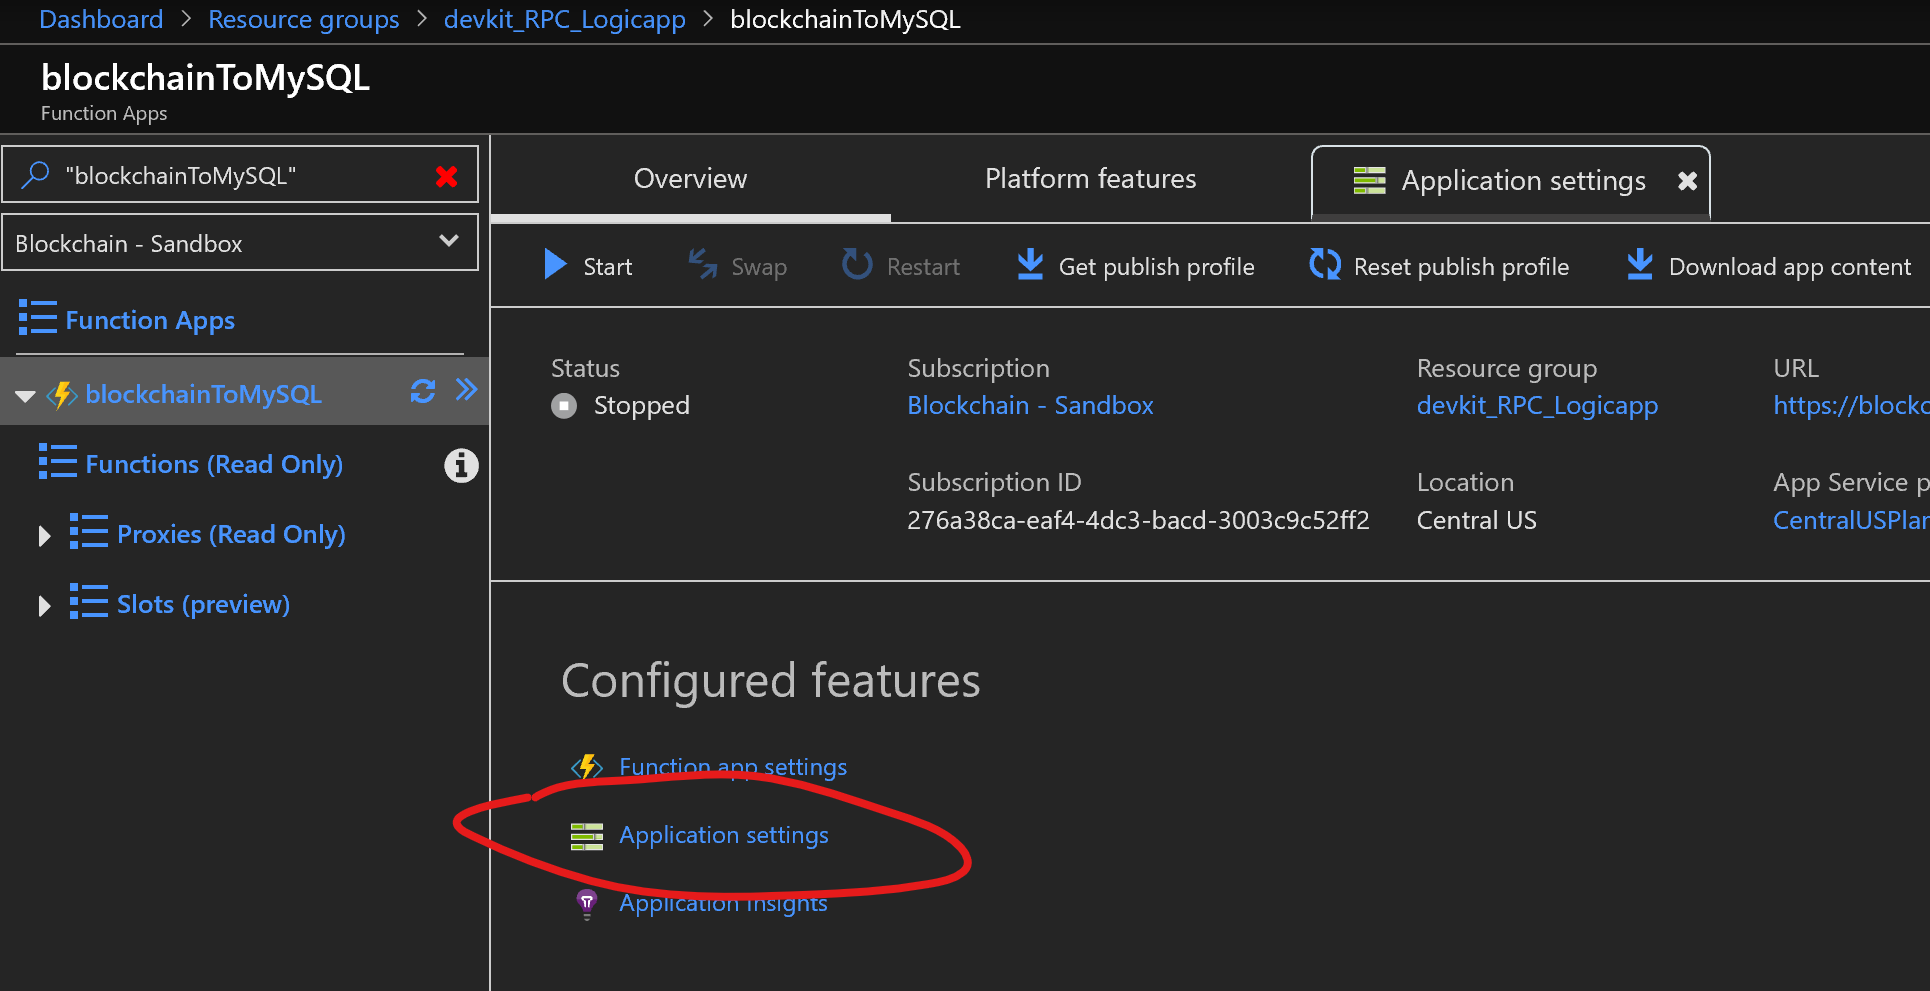
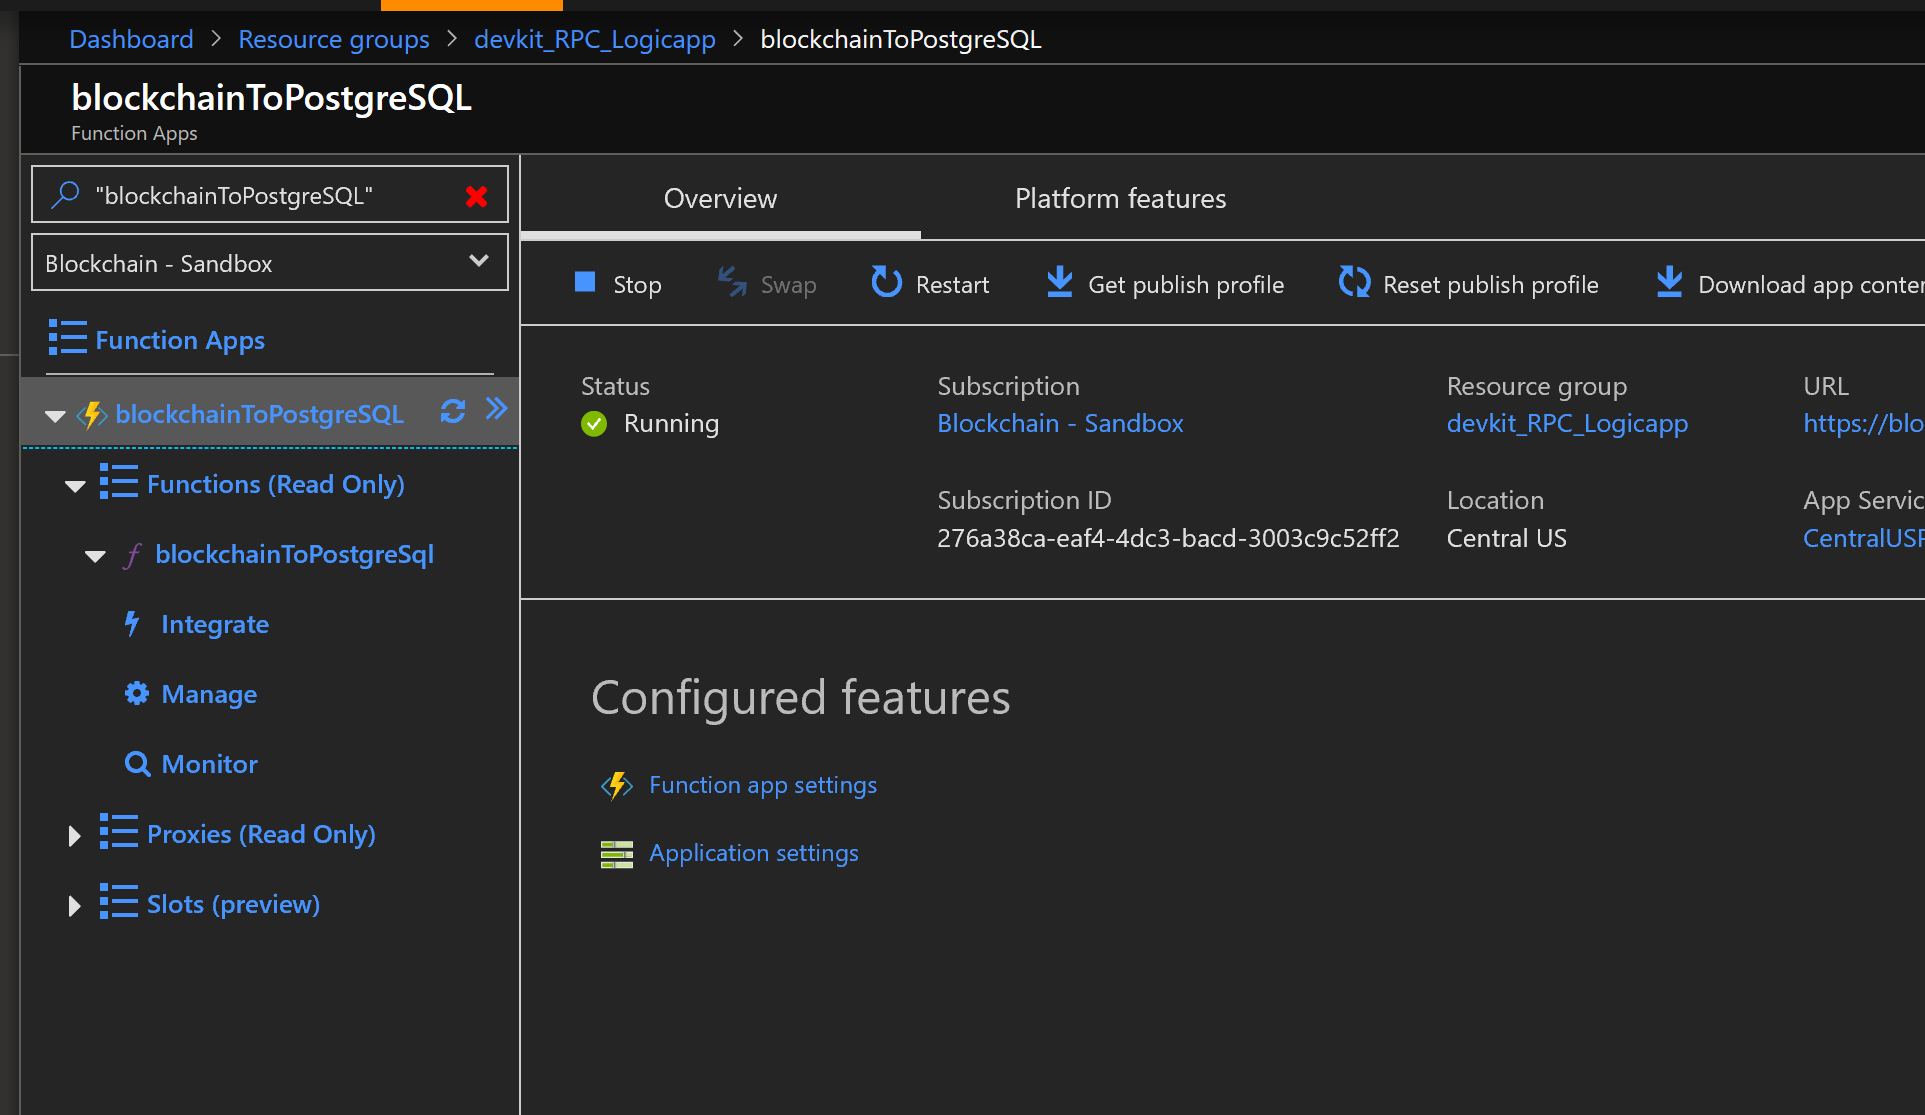
updates to readme, new media

diff --git a/blockchain-development-kit/integrate/data/postgresql/README.md b/blockchain-development-kit/integrate/data/postgresql/README.md
@@ -21,7 +21,7 @@ The preliminary difference in this sample is that in this PostgreSQL sample, we 
 |-------------|-------------|
 | `src`       | Sample source code. |
 | `media` | Images used in this README |
-| `contract` | An example Solidity contract and ABI. This contract contains an "emit" function which generates event that the logic app is triggered on. |
+| `contract` | An example Solidity contract and ABI. This contract contains an "emit" function which generates an event that the logic app is triggered on. |
 | `.gitignore` | Define what to ignore at commit time. |
 | `CHANGELOG.md` | List of changes to the sample. |
 | `CONTRIBUTING.md` | Guidelines for contributing to the sample. |
@@ -30,10 +30,10 @@ The preliminary difference in this sample is that in this PostgreSQL sample, we 
 
 ## Prerequisites
 
-- An [Azure Blockchain Workbench](https://azure.microsoft.com/en-us/features/blockchain-workbench/) instance with a public Ethereum RPC endpoint 
-- An [Azure MySQL database](https://docs.microsoft.com/en-us/azure/mysql/quickstart-create-mysql-server-database-using-azure-portal)
-- A [MySQL explorer](https://dev.mysql.com/downloads/)
-- An Ethereum contract. You may use your own, or one included in the Blockchain Workbench or in the Blockchain Development Kit
+- Optional - [Azure Blockchain Workbench](https://azure.microsoft.com/en-us/features/blockchain-workbench/) instance with a public Ethereum RPC endpoint 
+- An [Azure PostgreSQL database](https://docs.microsoft.com/en-us/azure/postgresql/quickstart-create-server-database-portal)
+- [pgAdmin](https://www.pgadmin.org/) A PostgreSQL database explorer
+- An Ethereum contract. You may use your own, or one included in the `contract` directory in this sample
 
 ## Setup
 
@@ -41,7 +41,7 @@ The preliminary difference in this sample is that in this PostgreSQL sample, we 
 
 2. Open the Visual Studio Code project in `./src` 
 
-    1. To test the project locally, you must add a `local.settings.json` file to the project and add your MySQL database credentials as shown below
+    1. To test the project locally, you must add a `local.settings.json` file to the project and add your PostgreSQL database credentials as shown below
 
         ![](./media/VSCodeLocalSettings.PNG)
 
@@ -53,7 +53,7 @@ The preliminary difference in this sample is that in this PostgreSQL sample, we 
 
         ![](./media/AzureFunctionApplicationSettingsKeys.PNG)
 
-3. [Create a database and table](https://docs.microsoft.com/en-us/azure/mysql/tutorial-design-database-using-portal#connect-to-the-server-using-mysql) in your MySQL server.
+3. [Create a database and table](https://docs.microsoft.com/en-us/azure/postgresql/quickstart-create-server-database-portal#connect-to-the-postgresql-database-using-psql) in your PostgreSQL server.
 
     1. Name the database `blockchaintestdb`
 
@@ -69,57 +69,36 @@ The preliminary difference in this sample is that in this PostgreSQL sample, we 
 
 6. In Logic App Designer build the following logic app flow
 
-    1. Add an Event Grid watcher to the logic app designer
+    1. Add the Ethereum Logic App connector, select the trigger `when a smart contract event occurs` as shown below
 
-        ![](./media/LogicAppEventGrid.png)
+        ![](./media/LogicAppTrigger.png)
 
-        1. Enter the subscription where you have deployed Azure Blockchain Workbench
-        2. Select `Microsoft.EventGrid.Topics` as the resource name
-        3. Select the event grid resource name created when you deployed workbench (search your resource group for event grid and get the resource name from the portal)
+    2. Cut and paste the ABI from your own contract, or from the example contract located in the `contract` directory of this sample
 
-    2. Next add a switch case conditional statement block and add "subject" as the switch condition
+    3. Cut and paste the address of your contract into the address field of this connector and save.
 
-        ![](./media/LogicAppConditionalSwitch.png)
+    4. Add a 2nd Ethereum Logic App connector. This time select the action `Get contract state (all properties)` as shown below
 
-    3. In the case statement type in `ContractMessage` as the case condition
+        ![](./media/LogicAppAction.png)
 
-    4. Add an action to parse the incoming JSON
+    5. Finally add the last action, connect this to your `blockchainToPostgreSQL` Azure Function you uploaded earlier
 
-        1. In the parse JSON step, select `body` as the content section and cut and paste the schema contained in ``./schema/logic/appParseSchema.txt`` into the Schema window
+    6. Add the \`body` as the input into the  Azure Logic App from the dynamic content menu
 
-        ![](./media/LogicParseJSON.png)
-
-    5. Next we want to add an evaluation of the contract status. Workbench gives us updates on many things, in this sample we are tracking updates to an existing contract. Thus we want to filter out messages related to new contracts being added. Add a filter and select `IsNewContract` as the filter condition
-
-        ![](./media/LogicAppIsNewContract.png) 
-
-    6. For the "if true" branch of the above condition, you want to add the Ethereum Logic App connector - Get smart contract state (all properties) action
-
-        1. Upload your contracts ABI to the connector
-        2. Add the address of your deployed contract to the connector
-
-        ![](./media/LogicAppABI.png)
-
-        ![](./media/LogicAppContractAddress.png)
-
-    7. Finally add the Azure Function `blockchainToMySQL` that you uploaded earlier
-
-        ![](./media/LogicAppAzureFunction.png)
-
-    8. The finished logic app connections should look like this
+    7. The final logic app flow should look like this
 
         ![](./media/LogicAppDesigner.PNG)
 
-         
+        
 
 
 ## Running the sample
 
-1. Make sure the your `blockchainToMySQL` function and Azure logic app are running
+1. Make sure the your `blockchainToPostgreSQL` function and Azure logic app are running
 
 2. Create and execute a few transaction/state changes in your contract.
 
-3. Connect your MySQL explorer to your server and `contractactions` table and execute the following SQL statement
+3. Connect your PostgreSQL explorer to your server and `contractactions` table and execute the following SQL statement
 
    ```sql 
     SELECT * FROM contractaction
@@ -127,16 +106,15 @@ The preliminary difference in this sample is that in this PostgreSQL sample, we 
 
 4. For every state change you should see the SQL table add a new row with all parties and state transactions recorded as shown in the example below
 
-   ![](./media/MySQLExplorer.PNG)
+   ![](./media/PostgreSQLExplorer.PNG)
 
 
 ## Key concepts
 
 Let's take a quick review of what's happening in this example. 
 
-* Contract events that happen on the blockchain are sent to an Azure Event Hub
-* An Azure Logic App monitors that Event Hub for notifications of new contract events
-* Upon a receipt of a new contract event the Ethereum Logic App Connector queries the blockchain at the address of a contract we are monitoring and pulls the current contract status
+* Contract events that happen on the blockchain are emitted by the Ethereum EVM as events that the Azure Ethereum Logic App is triggered on
+* After being triggered a 2nd Azure Ethereum Logic App then takes an action to query the blockchain at the address of a contract we are monitoring and pulls the current contract status
 * The Ethereum Logic App Connector then forwards the current contract status to a custom Azure Function
     ```JSON
         "body": {
@@ -149,7 +127,7 @@ Let's take a quick review of what's happening in this example.
     }
     ```
 
-* The Azure Function is parsing the contract status JSON and inserts that into a MySQL table
+* The Azure Function is parsing the contract status JSON and inserts that into a PostgreSQL table
     ```c#
     string requestBody = await new StreamReader(req.Body).ReadToEndAsync();
             dynamic data = JsonConvert.DeserializeObject(requestBody);
@@ -159,7 +137,7 @@ Let's take a quick review of what's happening in this example.
     command.CommandText = @"INSERT INTO contractaction (previouscounterparty, supplychainobserver, counterparty, supplychainowner, initiatingcounteraparty, state) VALUES (@_previouscounterparty, @_supplychainobserver, @_counterparty, @_supplychainowner, @_initiatingcounteraparty, @_state);";
     ```
 
-* Finally, you are viewing a record of all smart-contract actions as recorded in a MySQL database by querying the database using the MySQL workbench database viewer and selecting all records from the database `contractaction`
+* Finally, you are viewing a record of all smart-contract actions as recorded in a PostgreSQL database by querying the database using the PostgreSQL workbench database viewer and selecting all records from the database `contractaction`
 
 
 ## Next steps
